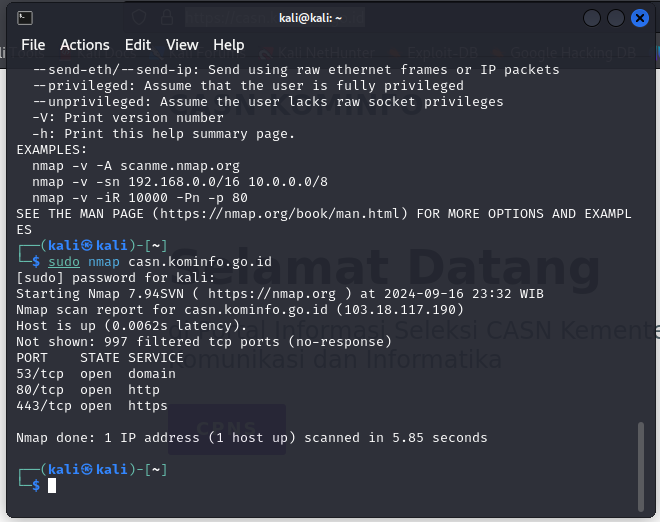
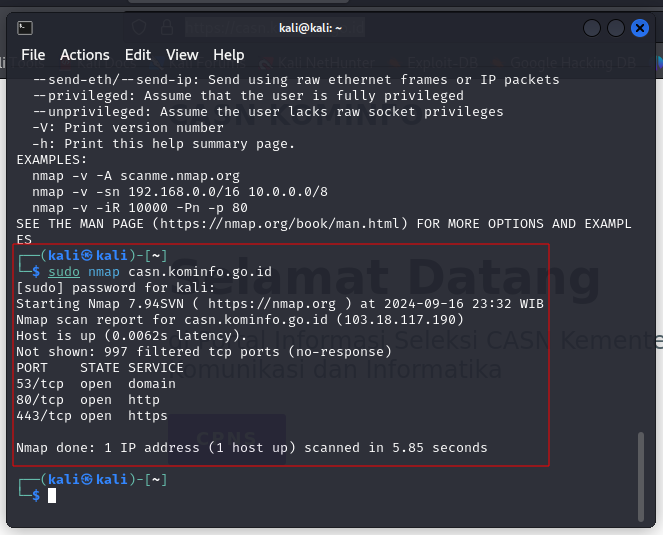
Update

Changed region(s): [[0.0, 0.0, 1.0, 1.0]]

diff --git a/Readme.md b/Readme.md
@@ -1,0 +1,87 @@
+# Network Scanning Tools on Kali Linux
+
+This guide provides instructions on how to install and use **Nmap**, **Zenmap**, and **Angry IP Scanner** on Kali Linux.
+
+## 1. Nmap
+
+### Instalasi
+Biasanya, Nmap sudah terpasang di Kali Linux. Cek dengan:
+```bash
+nmap --version
+```
+Jika belum terpasang:
+```bash
+sudo apt install nmap
+```
+![App Screenshot](/Image/1.png)
+
+### Penggunaan
+```bash
+sudo nmap casn.kominfo.go.id
+```
+![App Screenshot](/Image/2.png)
+
+Dilihat hasil scan menggunakan nmap pada gambar diatas, kita dapat melihat informasi berikut :
+
+- Ip dan port yang digunakan pada website tersebut
+
+## 2. Zenmap
+
+### Instalasi
+Zenmap adalah antarmuka grafis untuk Nmap. Instal dengan:
+```bash
+sudo apt install zenmap
+```
+![App Screenshot](/Image/3.png)
+
+![App Screenshot](/Image/4.png)
+
+### Penggunaan
+- Jalankan Zenmap:
+```bash
+sudo zenmap
+```
+- Masukkan IP atau hostname target.
+- Pilih profil scan (Quick Scan, Intense Scan, dll.).
+- Klik "Scan" untuk memulai.
+
+Zenmap memudahkan penggunaan Nmap melalui GUI.
+
+## 3. Angry IP Scanner
+
+## Instalasi
+1. Unduh paket `.deb` dari [Angry IP Scanner GitHub Releases](https://github.com/angryip/ipscan/releases/)
+
+![App Screenshot](/Image/5.png)
+
+![App Screenshot](/Image/6.png)
+
+2. Install paket dengan:
+```bash
+sudo dpkg -i ipscan_3.9.1_amd64.deb
+```
+![App Screenshot](/Image/7.png)
+
+### Penggunaan
+
+1. Jalankan Angry IP Scanner
+
+![App Screenshot](/Image/8.png)
+
+2. Masuk pada menu setting 
+
+3. Masukkan rentang IP yang akan di-scan.
+
+4. Klik "Start" untuk memulai scanning.
+
+Hasil scan dapat diekspor dalam format CSV atau TXT.
+
+## Kesimpulan
+
+- **Nmap**: Tools yang sangat kuat dan fleksibel untuk scanning jaringan mendalam, ideal bagi profesional keamanan jaringan yang memerlukan deteksi mendalam terhadap sistem dan layanan.
+  
+- **Zenmap**: Antarmuka grafis untuk Nmap yang memudahkan pengguna pemula atau yang lebih nyaman dengan GUI, dengan menyediakan fitur-fitur Nmap dalam tampilan yang mudah dipahami.
+  
+- **Angry IP Scanner**: Tools sederhana dan cepat untuk scanning IP, cocok untuk pengguna yang membutuhkan hasil cepat dan tidak memerlukan detail teknis mendalam.
+
+Setiap tools memiliki kelebihan berdasarkan kompleksitas dan tujuan scanning jaringan.
